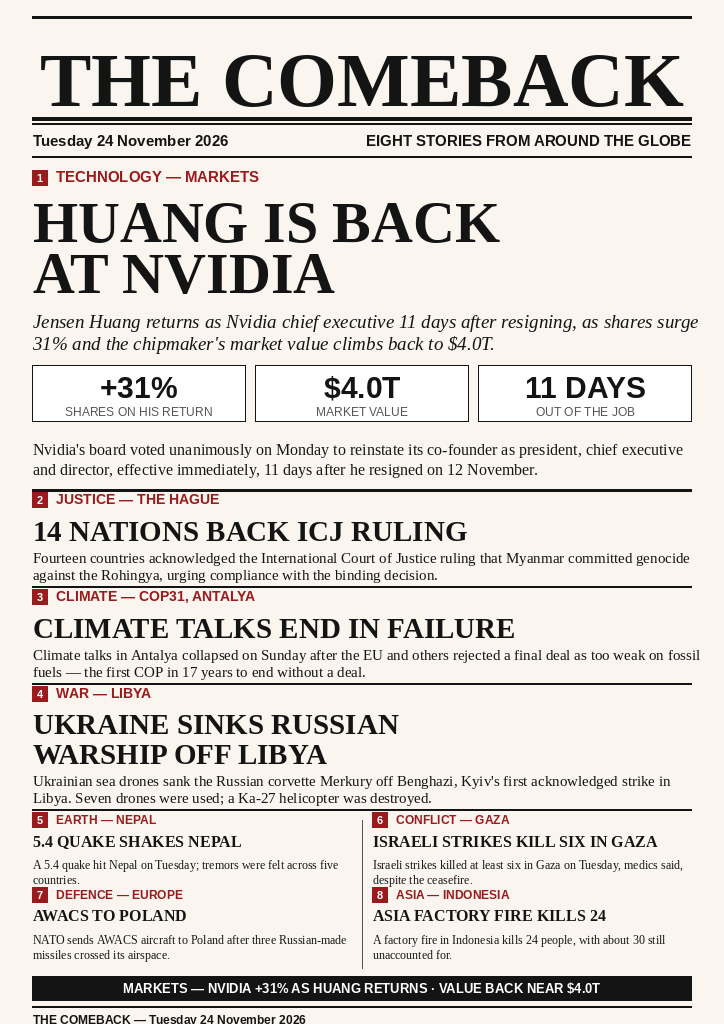
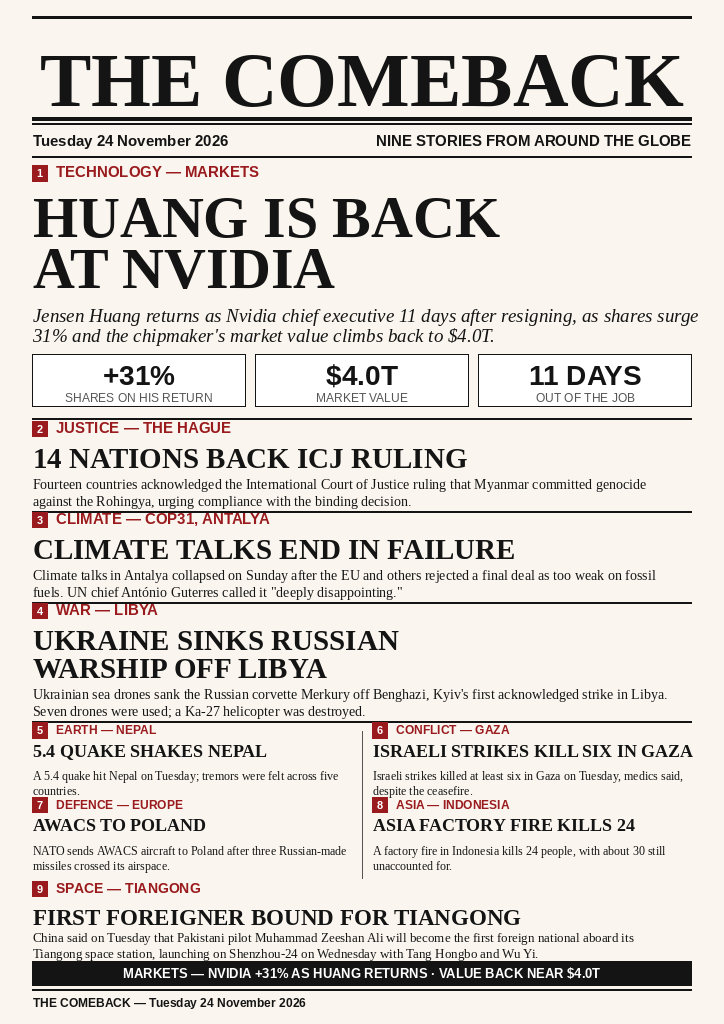
v3

Changed region(s): [[0.0304, 0.1562, 0.9724, 1.0], [0.5166, 0.125, 0.5773, 0.1562], [0.9116, 0.8438, 0.942, 0.875]]

diff --git a/build_frontpage.py b/build_frontpage.py
@@ -176,14 +176,14 @@ def build(data):
     svg.rect(M, 212, CW, 2, INK)
     # ---- dateline
     svg.text(M, 250, "Tuesday 24 November 2026", "sans-bold", 25)
-    svg.text(W - M, 250, "EIGHT STORIES FROM AROUND THE GLOBE", "sans-bold", 25, anchor="end")
+    svg.text(W - M, 250, "NINE STORIES FROM AROUND THE GLOBE", "sans-bold", 25, anchor="end")
     svg.rect(M, 268, CW, 2, INK)
 
-    y = 312  # cursor (baseline of next kicker)
+    y = 304  # cursor (baseline of next kicker)
 
     # ---- lead story (No. 1)
     badge(svg, M, y, "1")
-    svg.text(M + 40, y, lead["kicker"], "sans-bold", 25, fill=ACCENT)
+    svg.text(M + 40, y, lead["kicker"], "sans-bold", 26, fill=ACCENT)
     y += 14
     size, lines = headline_lines(lead["headline"], "serif-bold", 100, CW)
     assert len(lines) <= 2, f"lead headline still {len(lines)} lines"
@@ -192,26 +192,19 @@ def build(data):
         svg.text(M, y, ln, "serif-bold", size)
     y += 22
     for ln in wrap(lead["standfirst"], "serif-italic", 32, CW):
-        y += 38
+        y += 35
         svg.text(M, y, ln, "serif-italic", 32)
     # stat strip: +31% / $4.0T / 11 DAYS — the three required figures
-    y += 26
-    box_w, box_h, gap = (CW - 2 * 18) / 3, 96, 18
+    y += 22
+    box_w, box_h, gap = (CW - 2 * 18) / 3, 88, 18
     for i, st in enumerate(lead["stats"]):
         bx = M + i * (box_w + gap)
         svg.rect(bx, y, box_w, box_h, "#FFFFFF", stroke=INK, sw=2)
-        svg.text(bx + box_w / 2, y + 56, st["value"], "sans-bold", 52, anchor="middle")
-        svg.text(bx + box_w / 2, y + 86, st["label"], "sans", 21, fill=GREY, anchor="middle")
-    y += box_h + 22
-    # body, full width (v2: the MARKET REACTION chart was dropped to make
-    # room for 8 stories; the stat strip above already shows +31% / $4.0T)
-    by = y
-    for para in lead["body"][:1]:
-        for ln in wrap(para, "serif", 27, CW):
-            by += 35
-            svg.text(M, by, ln, "serif", 27)
-        by += 10
-    y = by + 14
+        svg.text(bx + box_w / 2, y + 52, st["value"], "sans-bold", 48, anchor="middle")
+        svg.text(bx + box_w / 2, y + 80, st["label"], "sans", 21, fill=GREY, anchor="middle")
+    y += box_h + 20
+    # v3: lead body dropped — its facts are already in the standfirst and
+    # the stat strip; the space goes to the 9th story (Tiangong) below.
     svg.rect(M, y, CW, 3, INK)
     y += 26
 
@@ -219,22 +212,22 @@ def build(data):
     mid = [stories["myanmar-icj"], stories["climate-cop31"], stories["ukraine-libya"]]
     for num, st in zip(("2", "3", "4"), mid):
         badge(svg, M, y, num)
-        svg.text(M + 40, y, st["kicker"], "sans-bold", 24, fill=ACCENT)
+        svg.text(M + 40, y, st["kicker"], "sans-bold", 25, fill=ACCENT)
         y += 12
         size, lines = headline_lines(st["headline"], "serif-bold", 50, CW)
         assert len(lines) <= 2, f"headline {st['id']} still {len(lines)} lines"
         for ln in lines:
-            y += 50
+            y += 48
             svg.text(M, y, ln, "serif-bold", size)
         y += 8
-        blines = wrap(st["body"][0], "serif", 25, CW)
+        blines = wrap(st["body"][0], "serif", 24, CW)
         assert len(blines) <= 2, f"body {st['id']} wraps to {len(blines)} lines"
         for ln in blines:
-            y += 30
-            svg.text(M, y, ln, "serif", 25)
+            y += 28
+            svg.text(M, y, ln, "serif", 24)
         y += 10
         svg.rect(M, y, CW, 2, INK)
-        y += 26
+        y += 22
 
     # ---- stories 5-8: 2x2 brief grid
     grid = [stories["nepal-quake"], stories["gaza-strikes"],
@@ -249,12 +242,12 @@ def build(data):
             cx = M + col * (col_w + 36)
             cy = grid_top + row * (card_h + row_gap)
             badge(svg, cx, cy, num)
-            svg.text(cx + 40, cy, st["kicker"], "sans-bold", 20, fill=ACCENT)
-            size, lines = fit_lines(st["headline"], "serif-bold", 28, 2, col_w)
+            svg.text(cx + 40, cy, st["kicker"], "sans-bold", 21, fill=ACCENT)
+            size, lines = fit_lines(st["headline"], "serif-bold", 30, 2, col_w)
             hy = cy + 38
             for ln in lines:
                 svg.text(cx, hy, ln, "serif-bold", size)
-                hy += 34
+                hy += 36
             by = hy + 4
             blines = wrap(st["body"][0], "serif", 20, col_w)
             assert len(blines) <= 2, f"grid body {st['id']} wraps to {len(blines)} lines"
@@ -265,14 +258,33 @@ def build(data):
              grid_top + 2 * card_h + row_gap, GREY, 1)
     y = grid_top + 2 * card_h + row_gap + 14
 
+    # ---- story 9: ALSO strip, full width (v3: space + named person)
+    st9 = stories["tiangong-shenzhou24"]
+    y += 12
+    badge(svg, M, y, "9")
+    svg.text(M + 40, y, st9["kicker"], "sans-bold", 24, fill=ACCENT)
+    y += 12
+    size, lines = headline_lines(st9["headline"], "serif-bold", 40, CW)
+    assert len(lines) <= 1, f"strip headline {len(lines)} lines"
+    for ln in lines:
+        y += 42
+        svg.text(M, y, ln, "serif-bold", size)
+    y += 4
+    blines = wrap(st9["body"][0], "serif", 23, CW)
+    assert len(blines) <= 2, f"strip body wraps to {len(blines)} lines"
+    for ln in blines:
+        y += 26
+        svg.text(M, y, ln, "serif", 23)
+    y += 6
+
     # ---- market strip (verified numbers only: +31% and $4.0T)
     svg.rect(M, y, CW, 42, INK)
     svg.text(W / 2, y + 29, "MARKETS — NVIDIA +31% AS HUANG RETURNS · VALUE BACK NEAR $4.0T",
              "sans-bold", 22, fill="#FFFFFF", anchor="middle")
-    y += 42 + 10
+    y += 42 + 6
 
     # ---- footer
-    assert y <= 1745, f"layout overflow: y={y}"
+    assert y <= 1700, f"layout overflow: y={y}"
     svg.rect(M, y, CW, 2, INK)
     svg.text(M, y + 30, "THE COMEBACK — Tuesday 24 November 2026",
              "sans-bold", 20)
